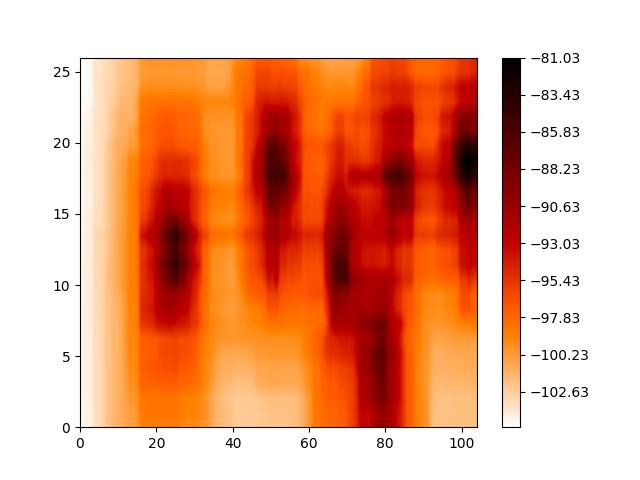
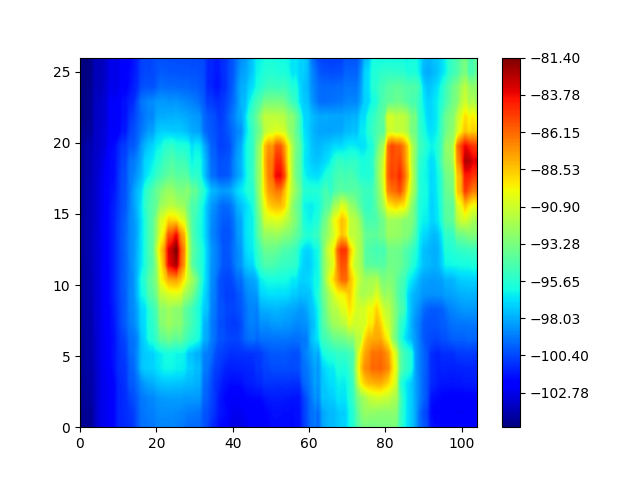
adjust colormap(jet) of contourf function

diff --git a/train.py b/train.py
@@ -23,7 +23,7 @@ fn_train_data = path + '/MDT.csv'
 #fn_output = 'out.csv'
 fn_model = 'model1'
 
-train_data_size = 500
+train_data_size =1200
 test_data_size = 3000
 batch_size = 16
 nb_epoch = 150
@@ -115,7 +115,7 @@ def get_heapmap(model):     # specialized drawing function for ITRI building 51
     z = model.predict(pos)
     z = np.reshape(z, (y_resolution, x_resolution))
     
-    plt.contourf(x, y, z, 1000, cmap='gist_heat_r')                             
+    plt.contourf(x, y, z, 1000, cmap='jet')                             
     plt.colorbar() 
     plt.show()
     plt.savefig('heapmap')
@@ -145,7 +145,7 @@ if __name__ == '__main__':
         print "---Model 1--- %s features" %nb_feature
         print("[MSE]: %.3f" % mean_squared_error(y_test, y_pred))
         print('[R2]: %.3f' % r2_score(y_test, y_pred))  
-        get_heapmap(model)
+        #get_heapmap(model)
         
     
     except KeyboardInterrupt:           
